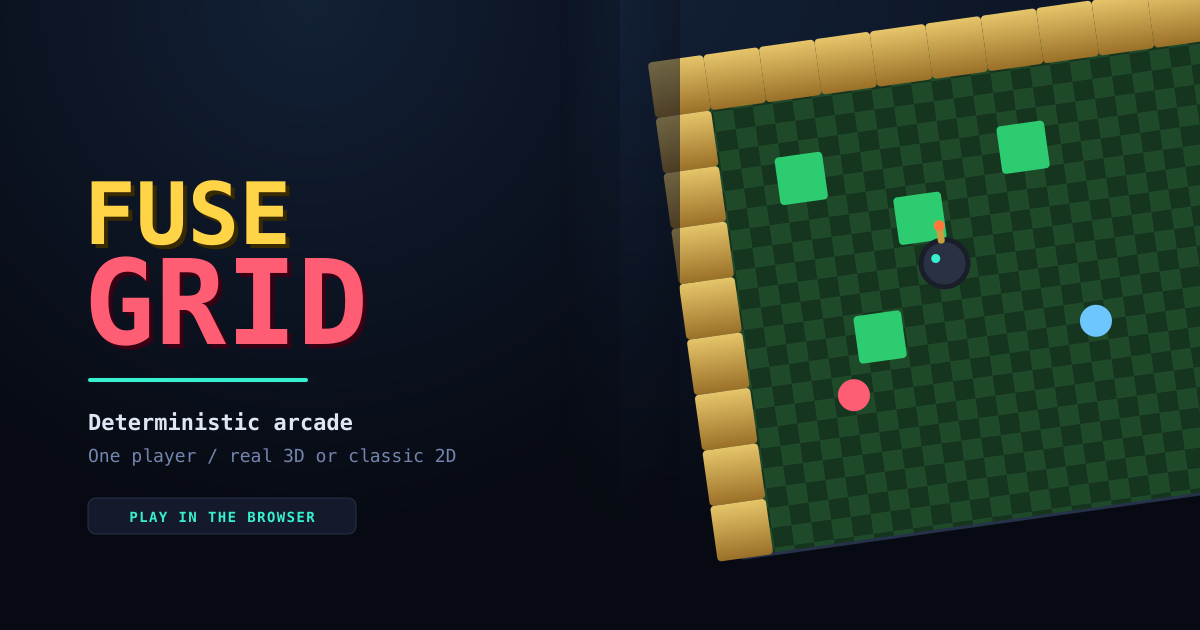
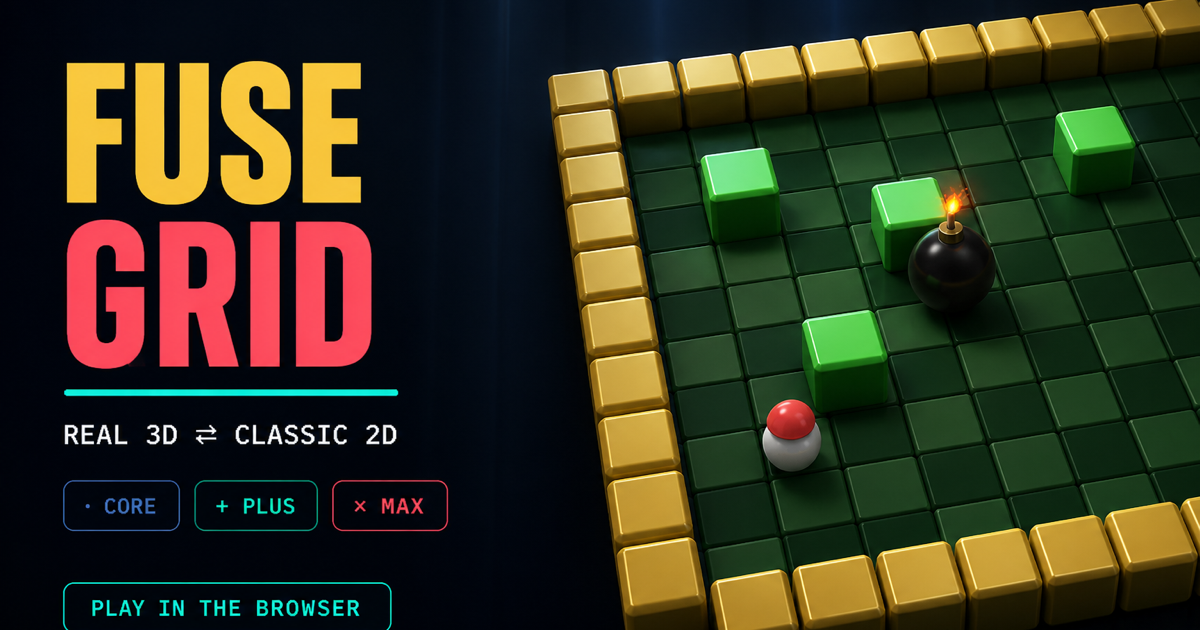
Refresh the share card and SEO copy so Heat, Pact, and real 3D show up in previews.

diff --git a/index.html b/index.html
@@ -3,30 +3,30 @@
 <head>
 <meta charset="UTF-8">
 <meta name="viewport" content="width=device-width, initial-scale=1.0">
-<title>FUSEGRID — play in the browser</title>
-<meta name="description" content="Fusegrid is a deterministic single-player bomb-grid arcade. Play in the browser: real 3D or classic 2D. Clear every enemy. Collect bombs, flame, kick, throw, remote, and shield.">
+<title>FUSE/GRID — play in the browser</title>
+<meta name="description" content="Fusegrid is a single-player bomb-grid arcade. Flip REAL 3D ⇄ CLASSIC 2D. Heat CORE / PLUS / MAX. After the first CLEAR: Pact and rooms 6–8. Play in the browser.">
 <meta name="theme-color" content="#070a12">
 <link rel="canonical" href="https://hmarzban.github.io/fusegrid/">
 <link rel="icon" href="favicon.svg" type="image/svg+xml">
 <link rel="apple-touch-icon" href="apple-touch-icon.png">
 <meta property="og:type" content="website">
 <meta property="og:site_name" content="Fusegrid">
-<meta property="og:title" content="FUSEGRID — play in the browser">
-<meta property="og:description" content="Deterministic single-player bomb-grid arcade. Real 3D or classic 2D. One player. Play in the browser.">
+<meta property="og:title" content="FUSE/GRID — play in the browser">
+<meta property="og:description" content="Single-player bomb-grid arcade. REAL 3D ⇄ CLASSIC 2D. Heat CORE / PLUS / MAX. Pact and rooms 6–8 after CLEAR.">
 <meta property="og:url" content="https://hmarzban.github.io/fusegrid/">
 <meta property="og:image" content="https://hmarzban.github.io/fusegrid/og.png">
 <meta property="og:image:secure_url" content="https://hmarzban.github.io/fusegrid/og.png">
 <meta property="og:image:type" content="image/png">
 <meta property="og:image:width" content="1200">
 <meta property="og:image:height" content="630">
-<meta property="og:image:alt" content="FUSE / GRID wordmark on a dark navy card with a tilted green arena and a lit bomb.">
+<meta property="og:image:alt" content="FUSE/GRID wordmark, CORE / PLUS / MAX heat chips, and a real-3D jungle arena with a lit bomb.">
 <meta name="twitter:card" content="summary_large_image">
-<meta name="twitter:title" content="FUSEGRID — play in the browser">
-<meta name="twitter:description" content="Deterministic single-player bomb-grid arcade. Real 3D or classic 2D. Play in the browser.">
+<meta name="twitter:title" content="FUSE/GRID — play in the browser">
+<meta name="twitter:description" content="Single-player bomb-grid arcade. REAL 3D ⇄ CLASSIC 2D. Heat CORE / PLUS / MAX. Pact and rooms 6–8 after CLEAR.">
 <meta name="twitter:image" content="https://hmarzban.github.io/fusegrid/og.png">
-<meta name="twitter:image:alt" content="FUSE / GRID wordmark on a dark navy card with a tilted green arena and a lit bomb.">
+<meta name="twitter:image:alt" content="FUSE/GRID wordmark, CORE / PLUS / MAX heat chips, and a real-3D jungle arena with a lit bomb.">
 <script type="application/ld+json">
-{"@context":"https://schema.org","@type":"VideoGame","name":"Fusegrid","alternateName":"FUSE/GRID","url":"https://hmarzban.github.io/fusegrid/","description":"Deterministic single-player bomb-grid arcade. Play in the browser: real 3D or classic 2D.","genre":["Arcade","Action"],"playMode":"SinglePlayer","applicationCategory":"Game","operatingSystem":"Web","image":"https://hmarzban.github.io/fusegrid/og.png"}
+{"@context":"https://schema.org","@type":"VideoGame","name":"Fusegrid","alternateName":"FUSE/GRID","url":"https://hmarzban.github.io/fusegrid/","description":"Single-player bomb-grid arcade. Play in the browser: REAL 3D ⇄ CLASSIC 2D. Heat CORE / PLUS / MAX. Pact and rooms 6–8 after the first CLEAR.","genre":["Arcade","Action"],"playMode":"SinglePlayer","applicationCategory":"Game","operatingSystem":"Web","image":"https://hmarzban.github.io/fusegrid/og.png"}
 </script>
 <style>
   :root{
@@ -77,9 +77,11 @@
   .hint{font-size:11px;color:#7385ad;max-width:560px;text-align:center;line-height:1.55}
   .hint kbd{background:#1d2740;border:1px solid #33436a;border-radius:4px;
     padding:1px 5px;color:#a9bbe0}
+  .sr-only{position:absolute;width:1px;height:1px;padding:0;margin:-1px;overflow:hidden;clip:rect(0,0,0,0);white-space:nowrap;border:0}
 </style>
 </head>
 <body>
+<h1 class="sr-only">Fusegrid</h1>
 <div id="wrap">
   <div id="hud">
     <span>SCORE <b id="score">0</b></span><span class="sep">·</span>

diff --git a/README.md b/README.md
@@ -1,10 +1,12 @@
 # FUSEGRID
 
-[![FUSE / GRID — play in the browser](og.png)](https://hmarzban.github.io/fusegrid/)
+[![FUSE/GRID — play in the browser](og.png)](https://hmarzban.github.io/fusegrid/)
 
-Deterministic single-player bomb-grid arcade. ES modules, no bundler, no npm runtime deps.
+Single-player bomb-grid arcade. Flip REAL 3D ⇄ CLASSIC 2D. Heat CORE / PLUS / MAX. After the first CLEAR: Pact and rooms 6–8. ES modules, no bundler, no npm runtime deps.
 
 **Play:** [hmarzban.github.io/fusegrid/](https://hmarzban.github.io/fusegrid/) — share this URL **with the trailing slash** so chat apps load the preview card.
+
+Cabinet: START, LEVEL SELECT, RENDER, HOW TO, ITEMS, ENEMIES, HIGH SCORES, SOURCE. Each room has its own chiptune and boom.
 
 ## Play locally
 
@@ -33,7 +35,7 @@ Internet multiplayer is not shipped — the sim is one player.
 
 ## Levels
 
-Five biomes on the first telling (1–5, no wrap). After the first FUSE/GRID CLEAR, rooms 6–8 and Pact toggles (`1`–`4`) unlock.
+Five biomes on the first telling (1–5, no wrap). After the first FUSE/GRID CLEAR, rooms 6–8 and Pact toggles (`1`–`4`: LAST / BARE / THIN / SHRINK) unlock.
 
 | Lv | Look |
 |---|---|

diff --git a/AGENTS.md b/AGENTS.md
@@ -130,7 +130,7 @@ not covered by Node — play-verify in a browser after render changes.
 
 ## Learned Workspace Facts
 - Surviving a hit leaves live bombs and blades in the world.
-- Share the play URL with a trailing slash (`https://hmarzban.github.io/fusegrid/`); the no-slash GitHub Pages 301 has no Open Graph tags, so link previews fail.
+- Share the play URL with a trailing slash (`https://hmarzban.github.io/fusegrid/`); the no-slash GitHub Pages 301 has no Open Graph tags, so link previews fail. Share card is root `og.png` (1200×630); `og:image` stays the absolute Pages URL. Card sells REAL 3D ⇄ CLASSIC 2D plus CORE / PLUS / MAX; never Bomberman on the image or tags.
 - A just-planted bomb is not solid while the bomber still occupies that tile; after leaving, re-entry is blocked (plant-and-leave / R16).
 - FLAME is blast length in tiles (starts at 1, caps at 8, persists across death and rooms); BOMB is how many bombs can be live at once.
 - Gold WALL never breaks; green BRICK breaks and stops a normal blast.

diff --git a/MEMORY.md b/MEMORY.md
@@ -16,6 +16,9 @@ append an entry when it makes a non-trivial change.
 
 ## Log
 
+## 2026-09-03 — Share card sells Heat + 3D
+- Regenerated `og.png` 1200×630 (3D jungle board + CORE / PLUS / MAX chips). `index.html` / README copy match Heat, Pact, rooms 6–8. Favicon bomb mark kept — still crisp in the same navy / gold / teal family.
+
 ## 2026-09-03 — Docs inherit Heat / Pact / rooms / attract
 - AGENTS/README now match CORE/PLUS/MAX, attract CORE+pact=0, `isFinale` overlay, `boomOf`, `pactstore.js`, `scoreEntry`/`noteWorldEdge`, and the parked list.
 
